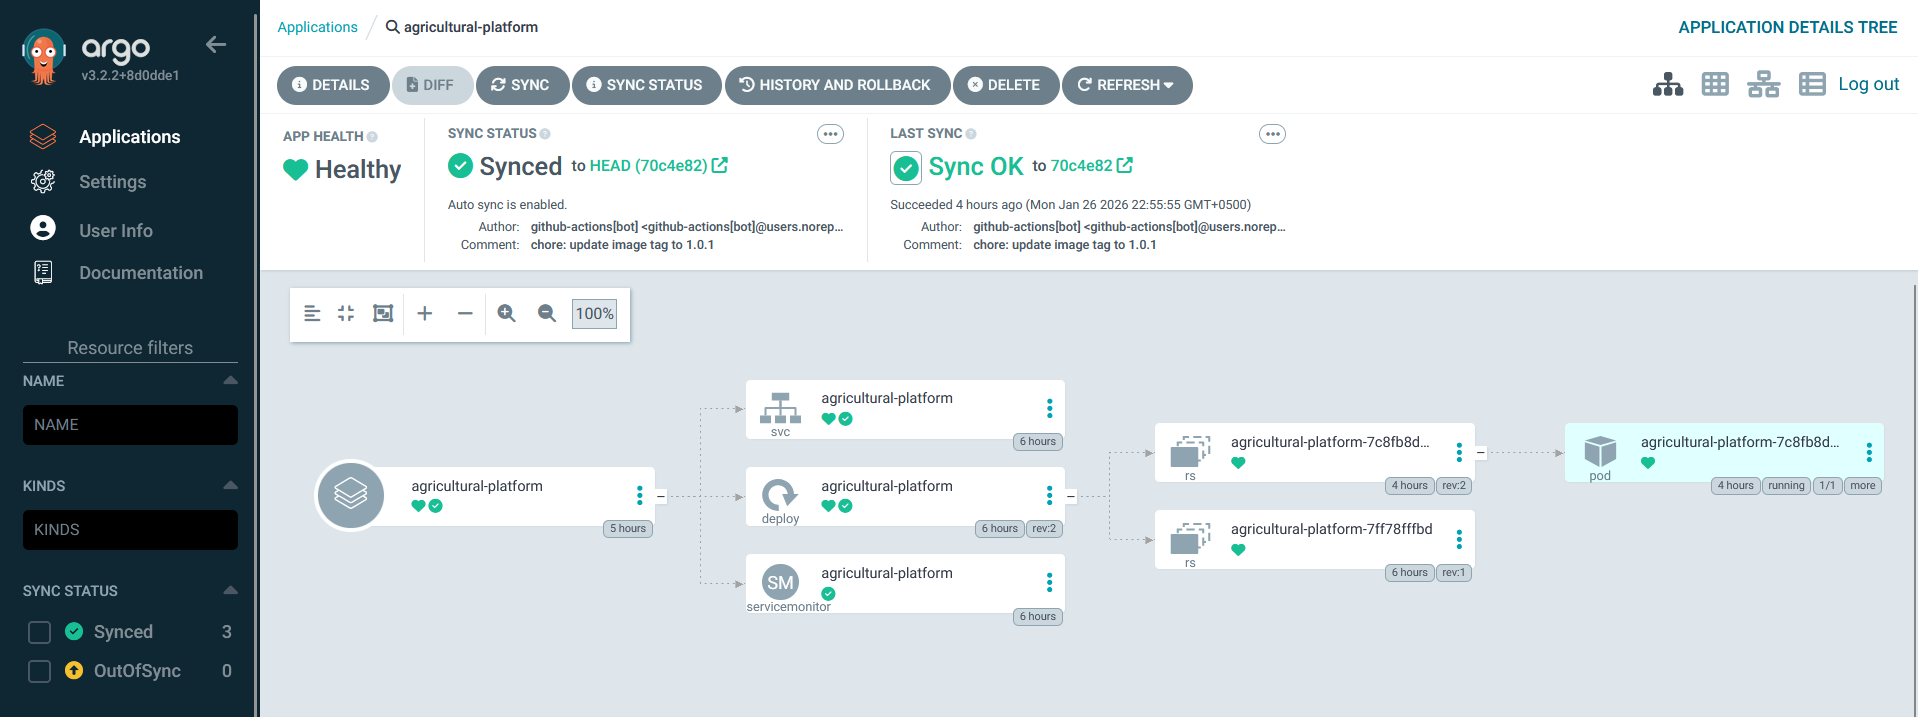
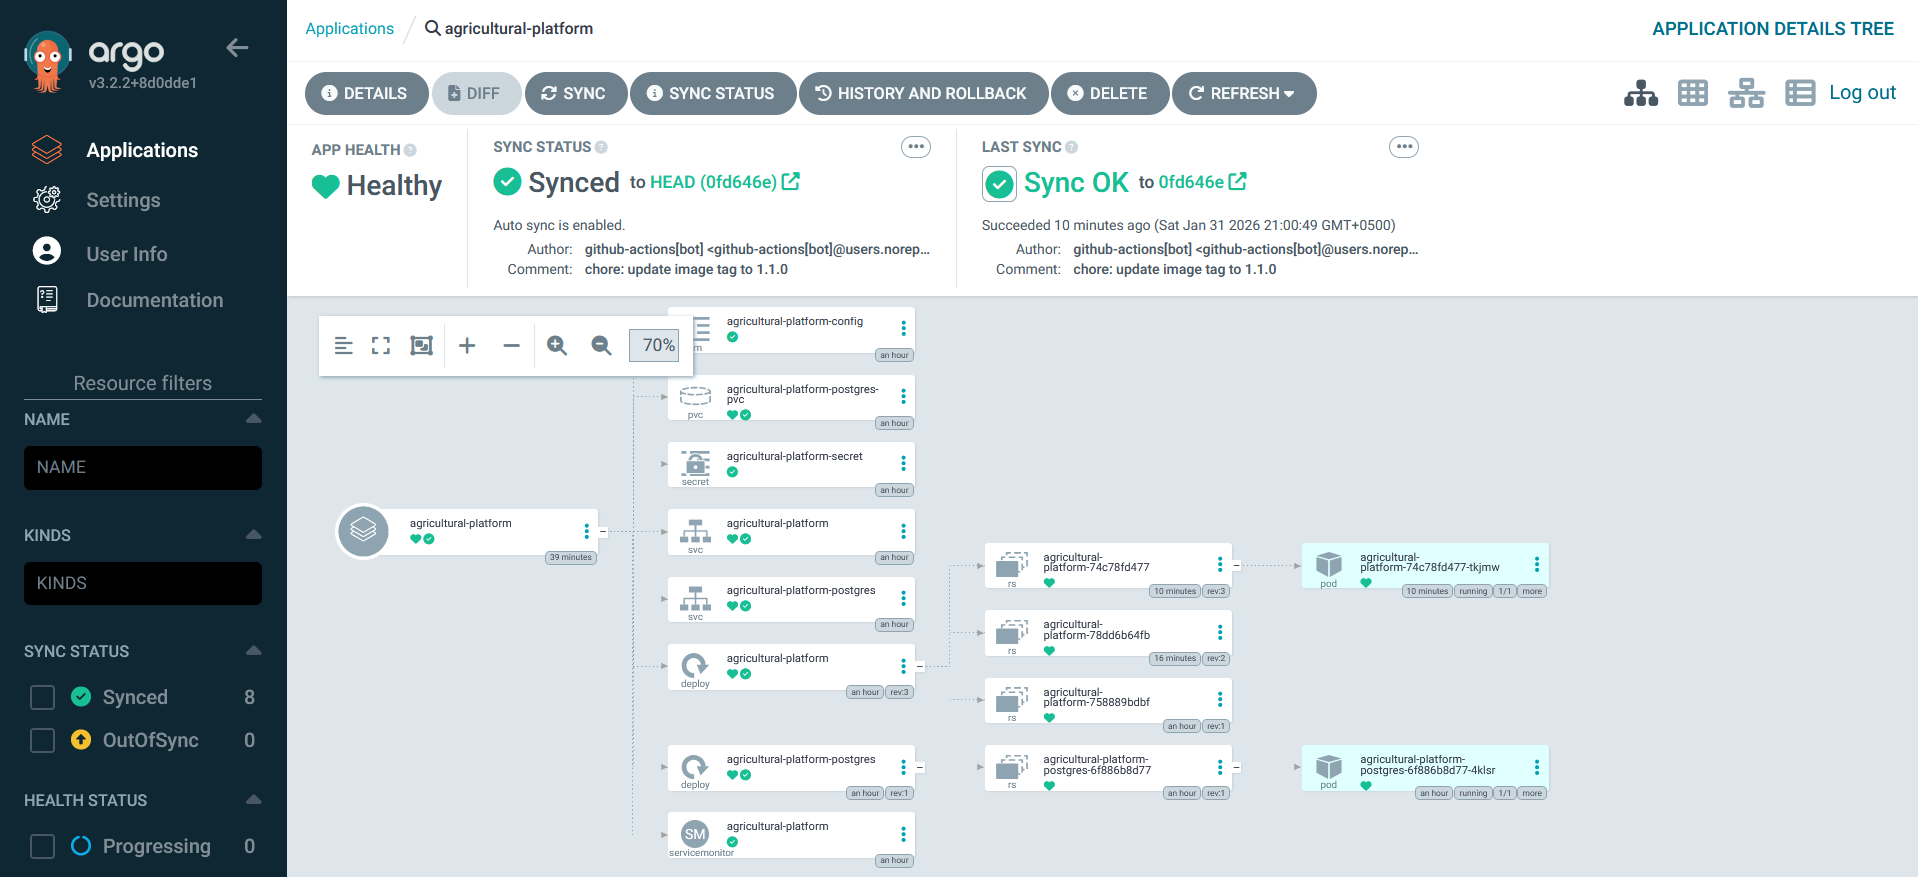
readme.md file updated

diff --git a/README.md b/README.md
@@ -1,6 +1,6 @@
 # Agricultural Digital Platform
 
-A cloud-based Digital Procurement Platform for Agriculture & Food Production built with modern DevOps practices.
+A Digital Procurement Platform for Agriculture & Food Production built with modern DevOps practices.
 
 ## 📋 Project Overview
 
@@ -9,7 +9,7 @@ This platform connects farmers, suppliers, distributors, and food-processing com
 | Component            | Technology                |
 |----------------------|---------------------------|
 | **Backend**          | Java 21, Spring Boot 3    |
-| **Database**         | H2 (In-memory)            |
+| **Database**         | PostgreSQL                |
 | **Containerization** | Docker                    |
 | **Orchestration**    | Kubernetes                |
 | **Package Manager**  | Helm                      |
@@ -54,7 +54,12 @@ helm/agricultural-platform/
 └── templates/
     ├── deployment.yaml
     ├── service.yaml
-    └── servicemonitor.yaml
+    ├── servicemonitor.yaml
+    ├── configmap.yaml           
+    ├── secret.yaml              
+    ├── postgres-deployment.yaml
+    ├── postgres-service.yaml
+    └── postgres-pvc.yaml
 ```
 
 ### ArgoCD Application
@@ -75,6 +80,7 @@ The application exposes the following custom business metrics:
 | `price_updates_total`             | Counter | Total number of price updates     |
 | `active_products_count`           | Gauge   | Currently available products      |
 | `pending_orders_count`            | Gauge   | Orders waiting to be processed    |
+
 ### Prometheus Metrics
 ![Alt text](screenshots/prometheus.png)
 ### Custom Grafana Dashboard
@@ -148,7 +154,12 @@ agricultural-platform/
 │       └── templates/
 │           ├── deployment.yaml
 │           ├── service.yaml
-│           └── servicemonitor.yaml
+│           ├── servicemonitor.yaml
+│           ├── configmap.yaml
+│           ├── secret.yaml
+│           ├── postgres-deployment.yaml
+│           ├── postgres-service.yaml
+│           └── postgres-pvc.yaml
 ├── Dockerfile
 ├── pom.xml
 └── README.md
